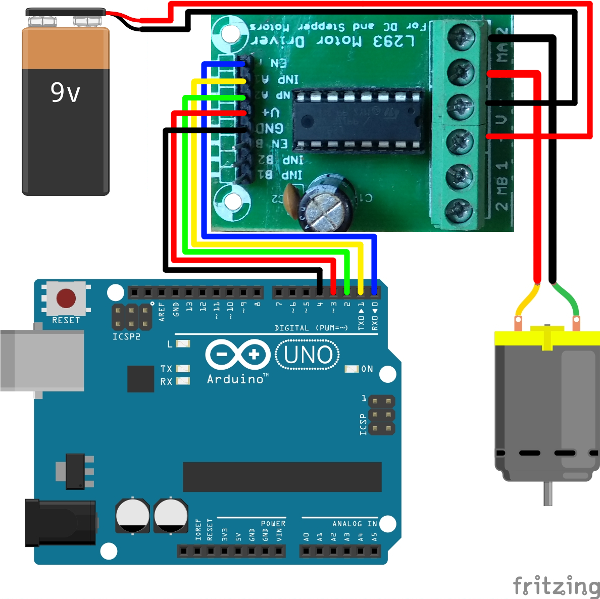
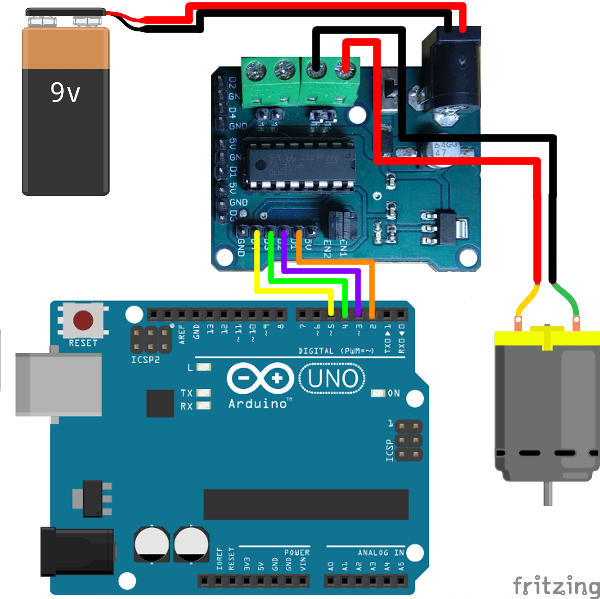
updated motors diagram

diff --git a/arduino_basics_robot/13line_follower.md b/arduino_basics_robot/13line_follower.md
@@ -10,13 +10,7 @@ front of the sensor the light gets absorbed by the black surface. This way we ca
 detect black lines on lightly colored surfaces.
 
 The reason we use 2 sensors is: we put two on the robot so they are on either side of
-the line:
-
-<img class="aligncenter wp-image-147 size-full" src="https://aaalearn.mystagingwebsite.com/wp-content/uploads/2018/04/motion_alarm.png" alt="motion" width="644" height="588" />
-
-If the line bends then the sensor on that side sees the line:
-
-<img class="aligncenter wp-image-147 size-full" src="https://aaalearn.mystagingwebsite.com/wp-content/uploads/2018/04/motion_alarm.png" alt="motion" width="644" height="588" />
+the line, if the line bends then the sensor on that side sees the line.
 
 ### Line following logic:
 
@@ -58,7 +52,7 @@ Assemble the robot chassis using the instructions from the [object avoiding robo
 
 **Diagram:**
 
-<img class="aligncenter wp-image-147 size-full" src="https://aaalearn.mystagingwebsite.com/wp-content/uploads/2018/04/motion_alarm.png" alt="motion" width="644" height="588" />
+<img class="aligncenter wp-image-147 size-full" src="https://aaalearn.mystagingwebsite.com/wp-content/uploads/2018/04/line_follower.png" alt="motion" width="433" height="600" />
 
 ### code
 ```

diff --git a/arduino_basics_robot/5motors.md b/arduino_basics_robot/5motors.md
@@ -31,7 +31,7 @@ GND         |  GND for motors
 
 **Diagram:**
 
-<img class="wp-image-112 size-full aligncenter" src="https://aaalearn.mystagingwebsite.com/wp-content/uploads/2018/03/motors.png" alt="" width="600" height="599" />
+<img class="wp-image-112 size-full aligncenter" src="https://aaalearn.mystagingwebsite.com/wp-content/uploads/2018/04/motors.png" alt="" width="600" height="599" />
 
 ### The code
 The motor driver takes three inputs per motor: *motor enable*, *motor pin1*, and *motor pin2*.
